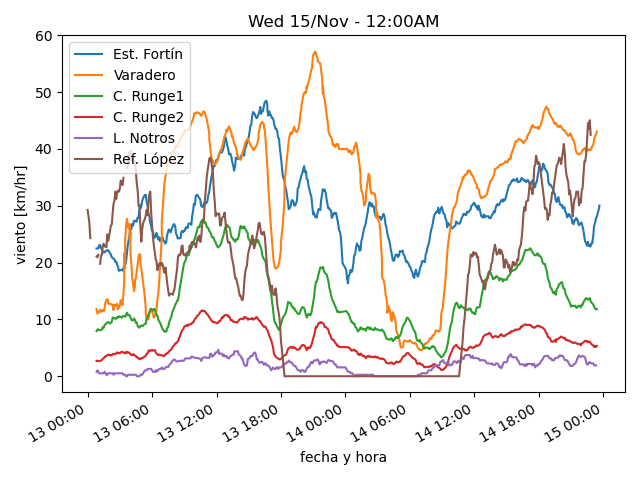
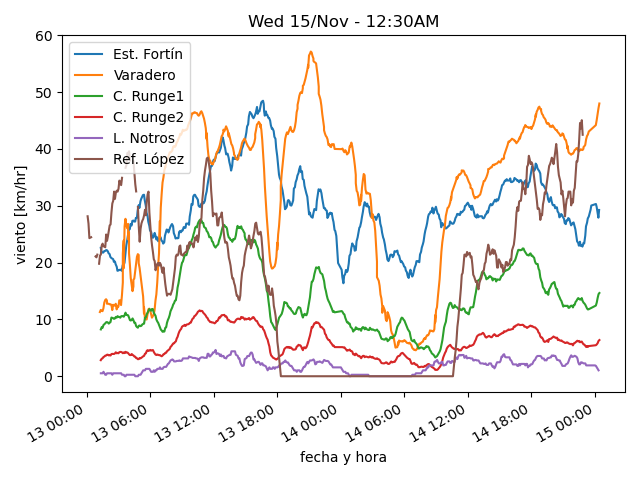
actualiza datos

diff --git a/estaciones/estacion1.html b/estaciones/estacion1.html
@@ -13,37 +13,37 @@
     </tr>
     <tr>
      <td class="stats_data">
-      Tue 14/Nov
+      Wed 15/Nov
      </td>
     </tr>
     <tr>
      <td class="stats_data">
-      11:38PM
+      12:23AM
      </td>
     </tr>
     <tr>
      <td class="stats_data">
-      4.1⁰C
+      3.7⁰C
      </td>
     </tr>
     <tr>
      <td class="stats_data">
-      -1.9⁰C
+      -1.8⁰C
      </td>
     </tr>
     <tr>
      <td class="stats_data">
-      65.0%
+      67.5%
      </td>
     </tr>
     <tr>
      <td class="stats_data">
-      1013.21hPa
+      1012.87hPa
      </td>
     </tr>
     <tr>
      <td class="stats_data">
-      18.5/29.0 km/hr W
+      25.7/42.6 km/hr W
      </td>
     </tr>
     <tr>

diff --git a/estaciones/estacion4.html b/estaciones/estacion4.html
@@ -13,37 +13,37 @@
     </tr>
     <tr>
      <td class="stats_data">
-      Tue 14/Nov
+      Wed 15/Nov
      </td>
     </tr>
     <tr>
      <td class="stats_data">
-      11:24PM
+      12:24AM
      </td>
     </tr>
     <tr>
      <td class="stats_data">
-      3.3⁰C
+      3.2⁰C
      </td>
     </tr>
     <tr>
      <td class="stats_data">
-      -0.4⁰C
+      -1.6⁰C
      </td>
     </tr>
     <tr>
      <td class="stats_data">
-      76.5%
+      70.8%
      </td>
     </tr>
     <tr>
      <td class="stats_data">
-      1011.62hPa
+      1010.94hPa
      </td>
     </tr>
     <tr>
      <td class="stats_data">
-      3.2/5.4 km/hr SSW
+      4.7/7.7 km/hr SSW
      </td>
     </tr>
     <tr>

diff --git a/estaciones/estacion3.html b/estaciones/estacion3.html
@@ -13,37 +13,37 @@
     </tr>
     <tr>
      <td class="stats_data">
-      Tue 14/Nov
+      Wed 15/Nov
      </td>
     </tr>
     <tr>
      <td class="stats_data">
-      11:24PM
+      12:24AM
      </td>
     </tr>
     <tr>
      <td class="stats_data">
-      3.2⁰C
+      3.3⁰C
      </td>
     </tr>
     <tr>
      <td class="stats_data">
-      0.4⁰C
+      -0.6⁰C
      </td>
     </tr>
     <tr>
      <td class="stats_data">
-      81.5%
+      75.4%
      </td>
     </tr>
     <tr>
      <td class="stats_data">
-      1002.91hPa
+      1002.13hPa
      </td>
     </tr>
     <tr>
      <td class="stats_data">
-      8.7/11.8 km/hr W
+      10.3/15.0 km/hr W
      </td>
     </tr>
     <tr>

diff --git a/estaciones/estacion2.html b/estaciones/estacion2.html
@@ -13,12 +13,12 @@
     </tr>
     <tr>
      <td class="stats_data">
-      Tue 14/Nov
+      Wed 15/Nov
      </td>
     </tr>
     <tr>
      <td class="stats_data">
-      11:24PM
+      12:24AM
      </td>
     </tr>
     <tr>
@@ -28,22 +28,22 @@
     </tr>
     <tr>
      <td class="stats_data">
-      2.5⁰C
+      1.3⁰C
      </td>
     </tr>
     <tr>
      <td class="stats_data">
-      81.8%
+      75.0%
      </td>
     </tr>
     <tr>
      <td class="stats_data">
-      1017.71hPa
+      1017.34hPa
      </td>
     </tr>
     <tr>
      <td class="stats_data">
-      39.0/47.4 km/hr NW
+      42.8/50.8 km/hr NW
      </td>
     </tr>
     <tr>

diff --git a/estaciones/estacion5.html b/estaciones/estacion5.html
@@ -13,32 +13,32 @@
     </tr>
     <tr>
      <td class="stats_data">
-      Tue 14/Nov
+      Wed 15/Nov
      </td>
     </tr>
     <tr>
      <td class="stats_data">
-      11:20PM
+      12:20AM
      </td>
     </tr>
     <tr>
      <td class="stats_data">
-      3.4⁰C
+      3.8⁰C
      </td>
     </tr>
     <tr>
      <td class="stats_data">
-      -0.2⁰C
+      -1.6⁰C
      </td>
     </tr>
     <tr>
      <td class="stats_data">
-      77.0%
+      68.0%
      </td>
     </tr>
     <tr>
      <td class="stats_data">
-      1015.68hPa
+      1015.0hPa
      </td>
     </tr>
     <tr>
